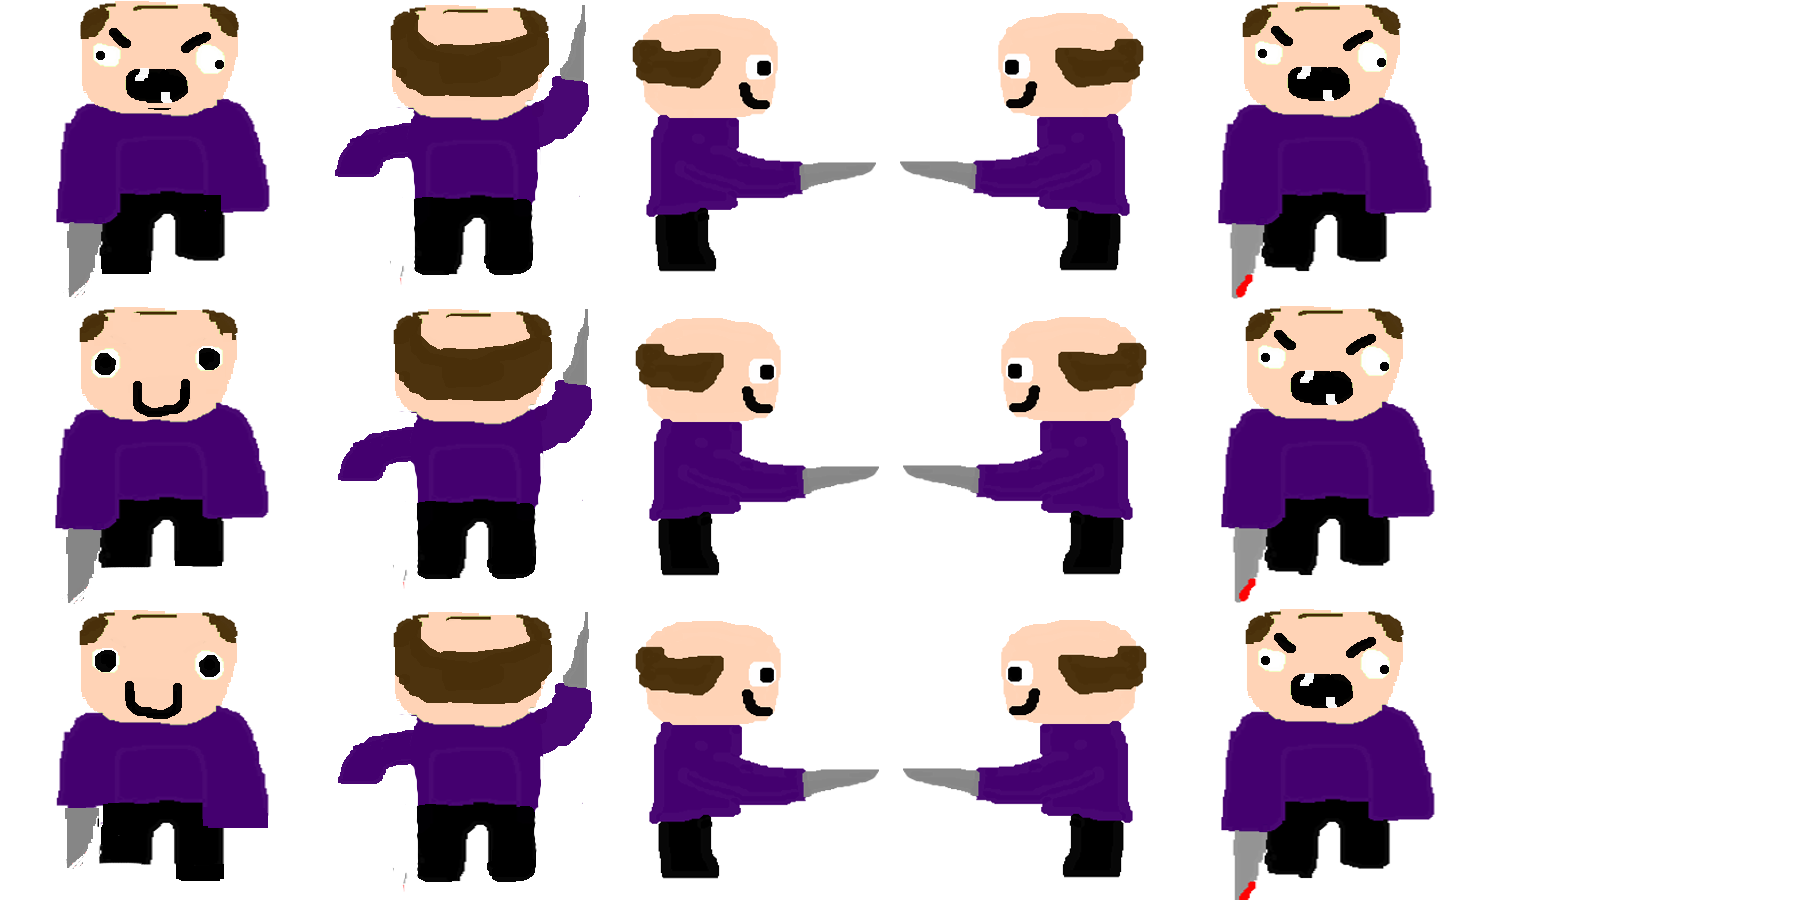
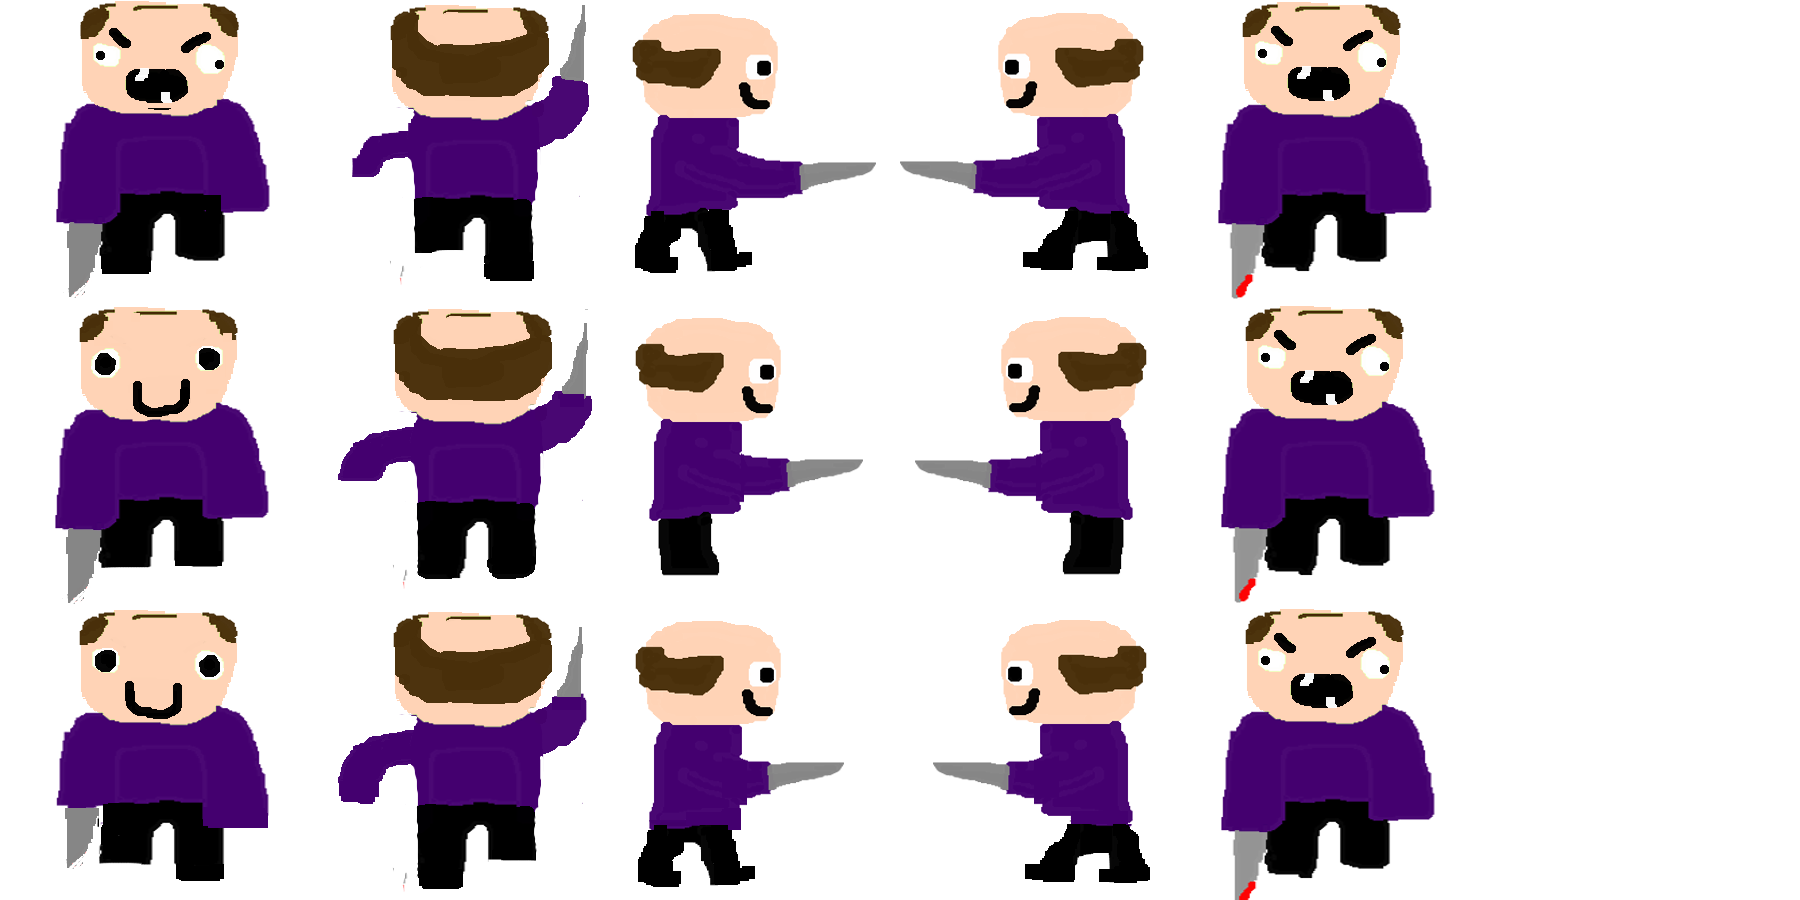
animation finished for manWithKnife

diff --git a/Fired/Fired/Hero.cs b/Fired/Fired/Hero.cs
@@ -26,7 +26,7 @@ namespace Fired
             image = new Rectangle(0, 0, 300, 300);
             oldState = Keyboard.GetState();
             animationChoice = 0;
-            animationSpeed = 30;
+            animationSpeed = 40;
         }
 
         // Load the object content
@@ -43,12 +43,14 @@ namespace Fired
 
             int getImageFromHeight = 0;
 
-            if (animationChoice < animationSpeed/3)
+            if (animationChoice < animationSpeed / 4)
                 getImageFromHeight = 0;
-            else if (animationChoice < 2*animationSpeed/3)
+            else if (animationChoice < 2 * animationSpeed / 4)
                 getImageFromHeight = 300;
-            else
+            else if (animationChoice < 3 * animationSpeed / 4)
                 getImageFromHeight = 600;
+            else
+                getImageFromHeight = 300;
 
             newState = Keyboard.GetState();
             velocity.X = 0;
